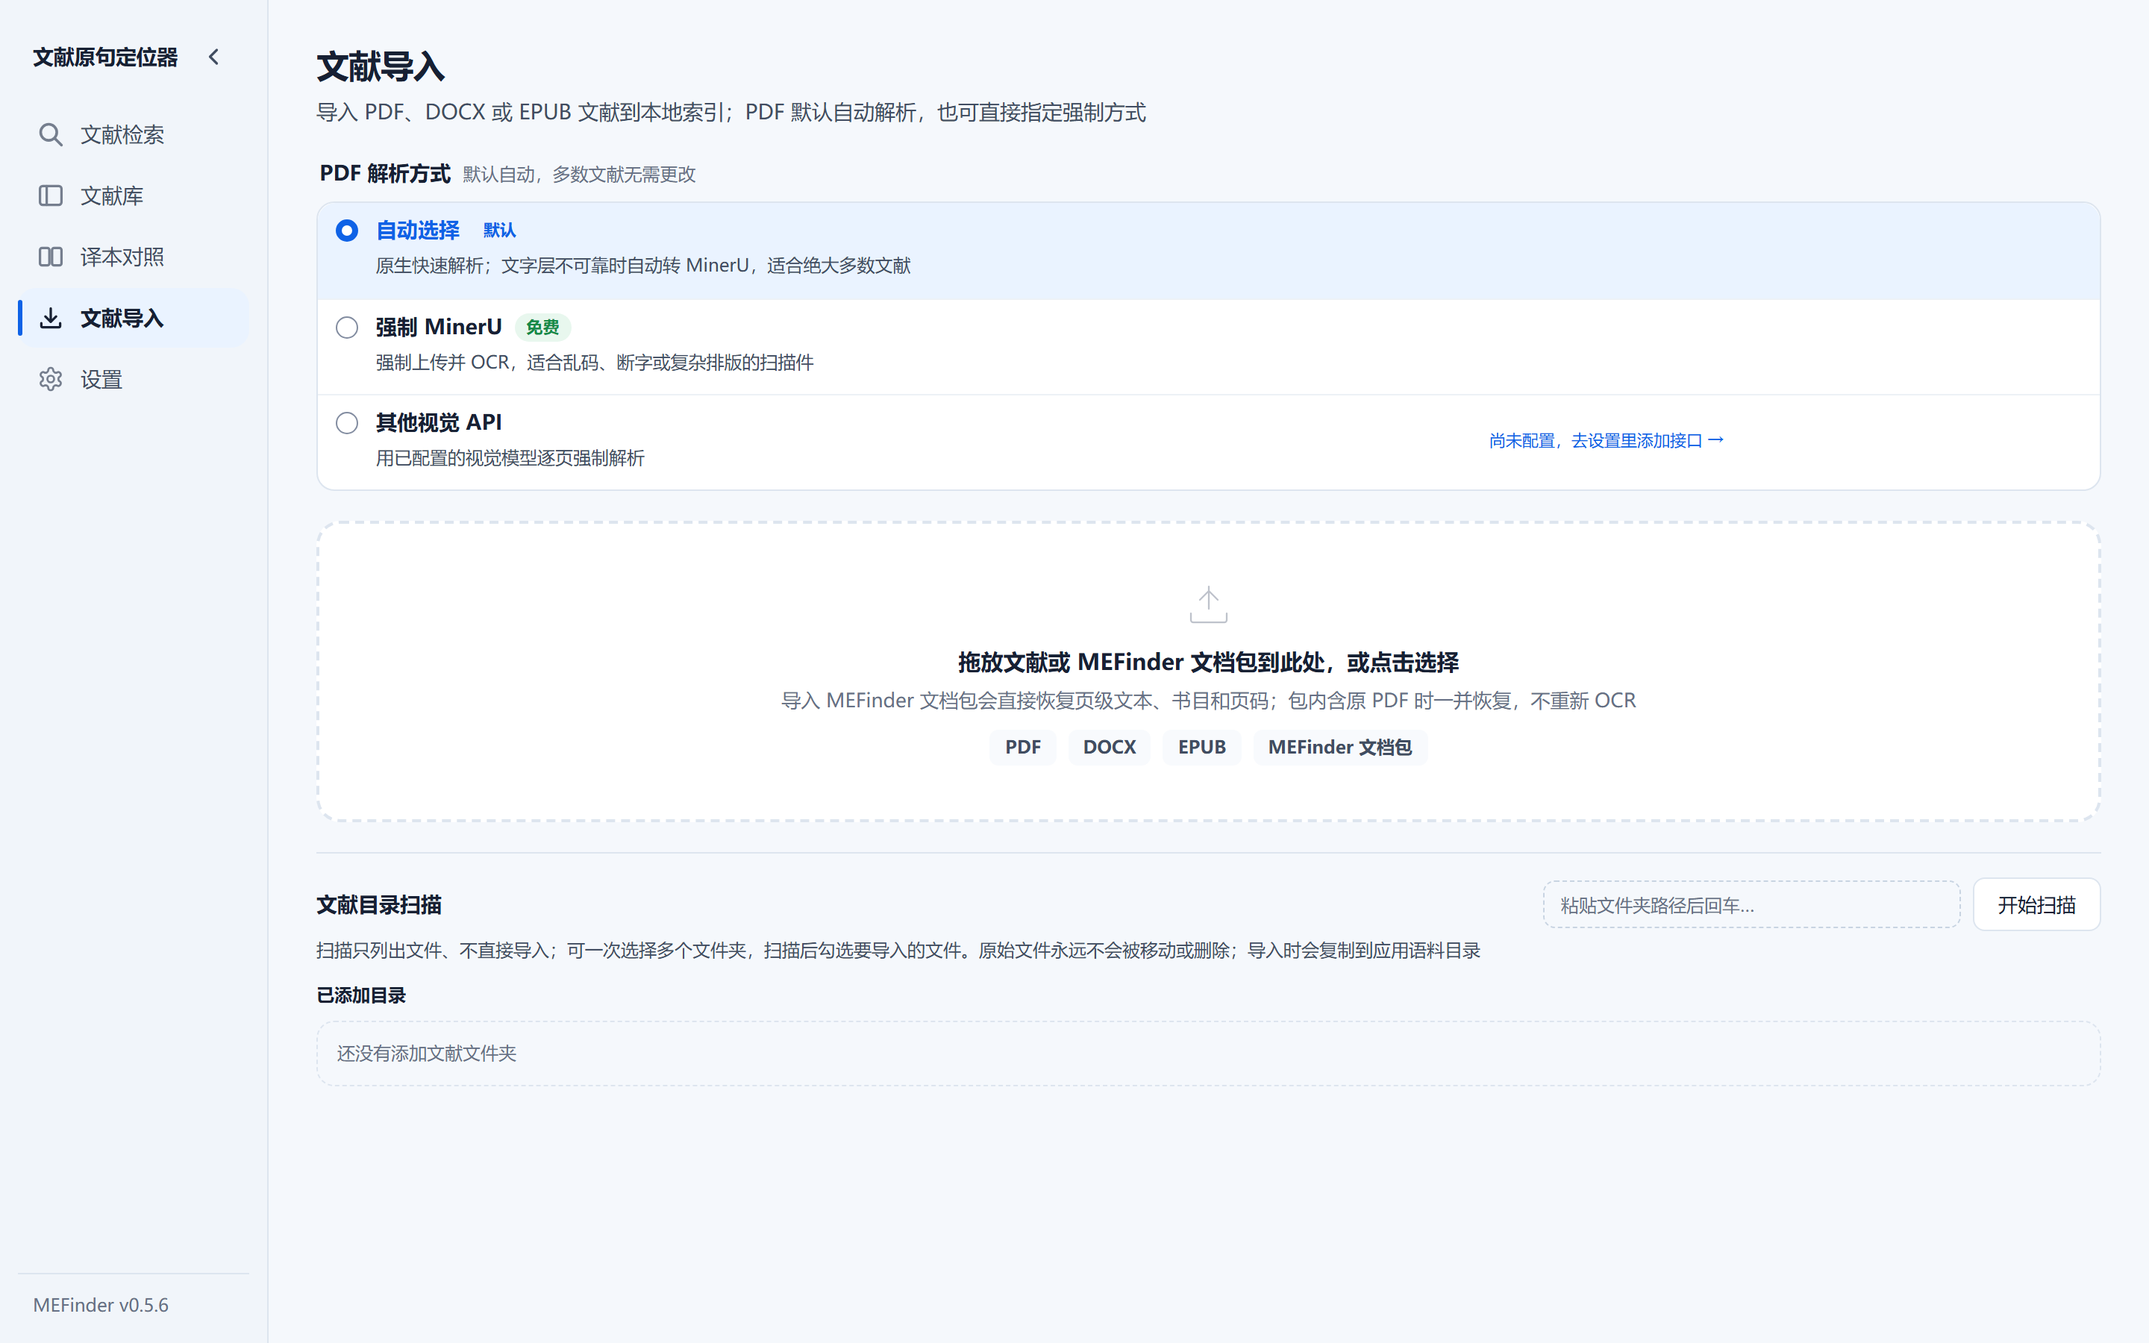
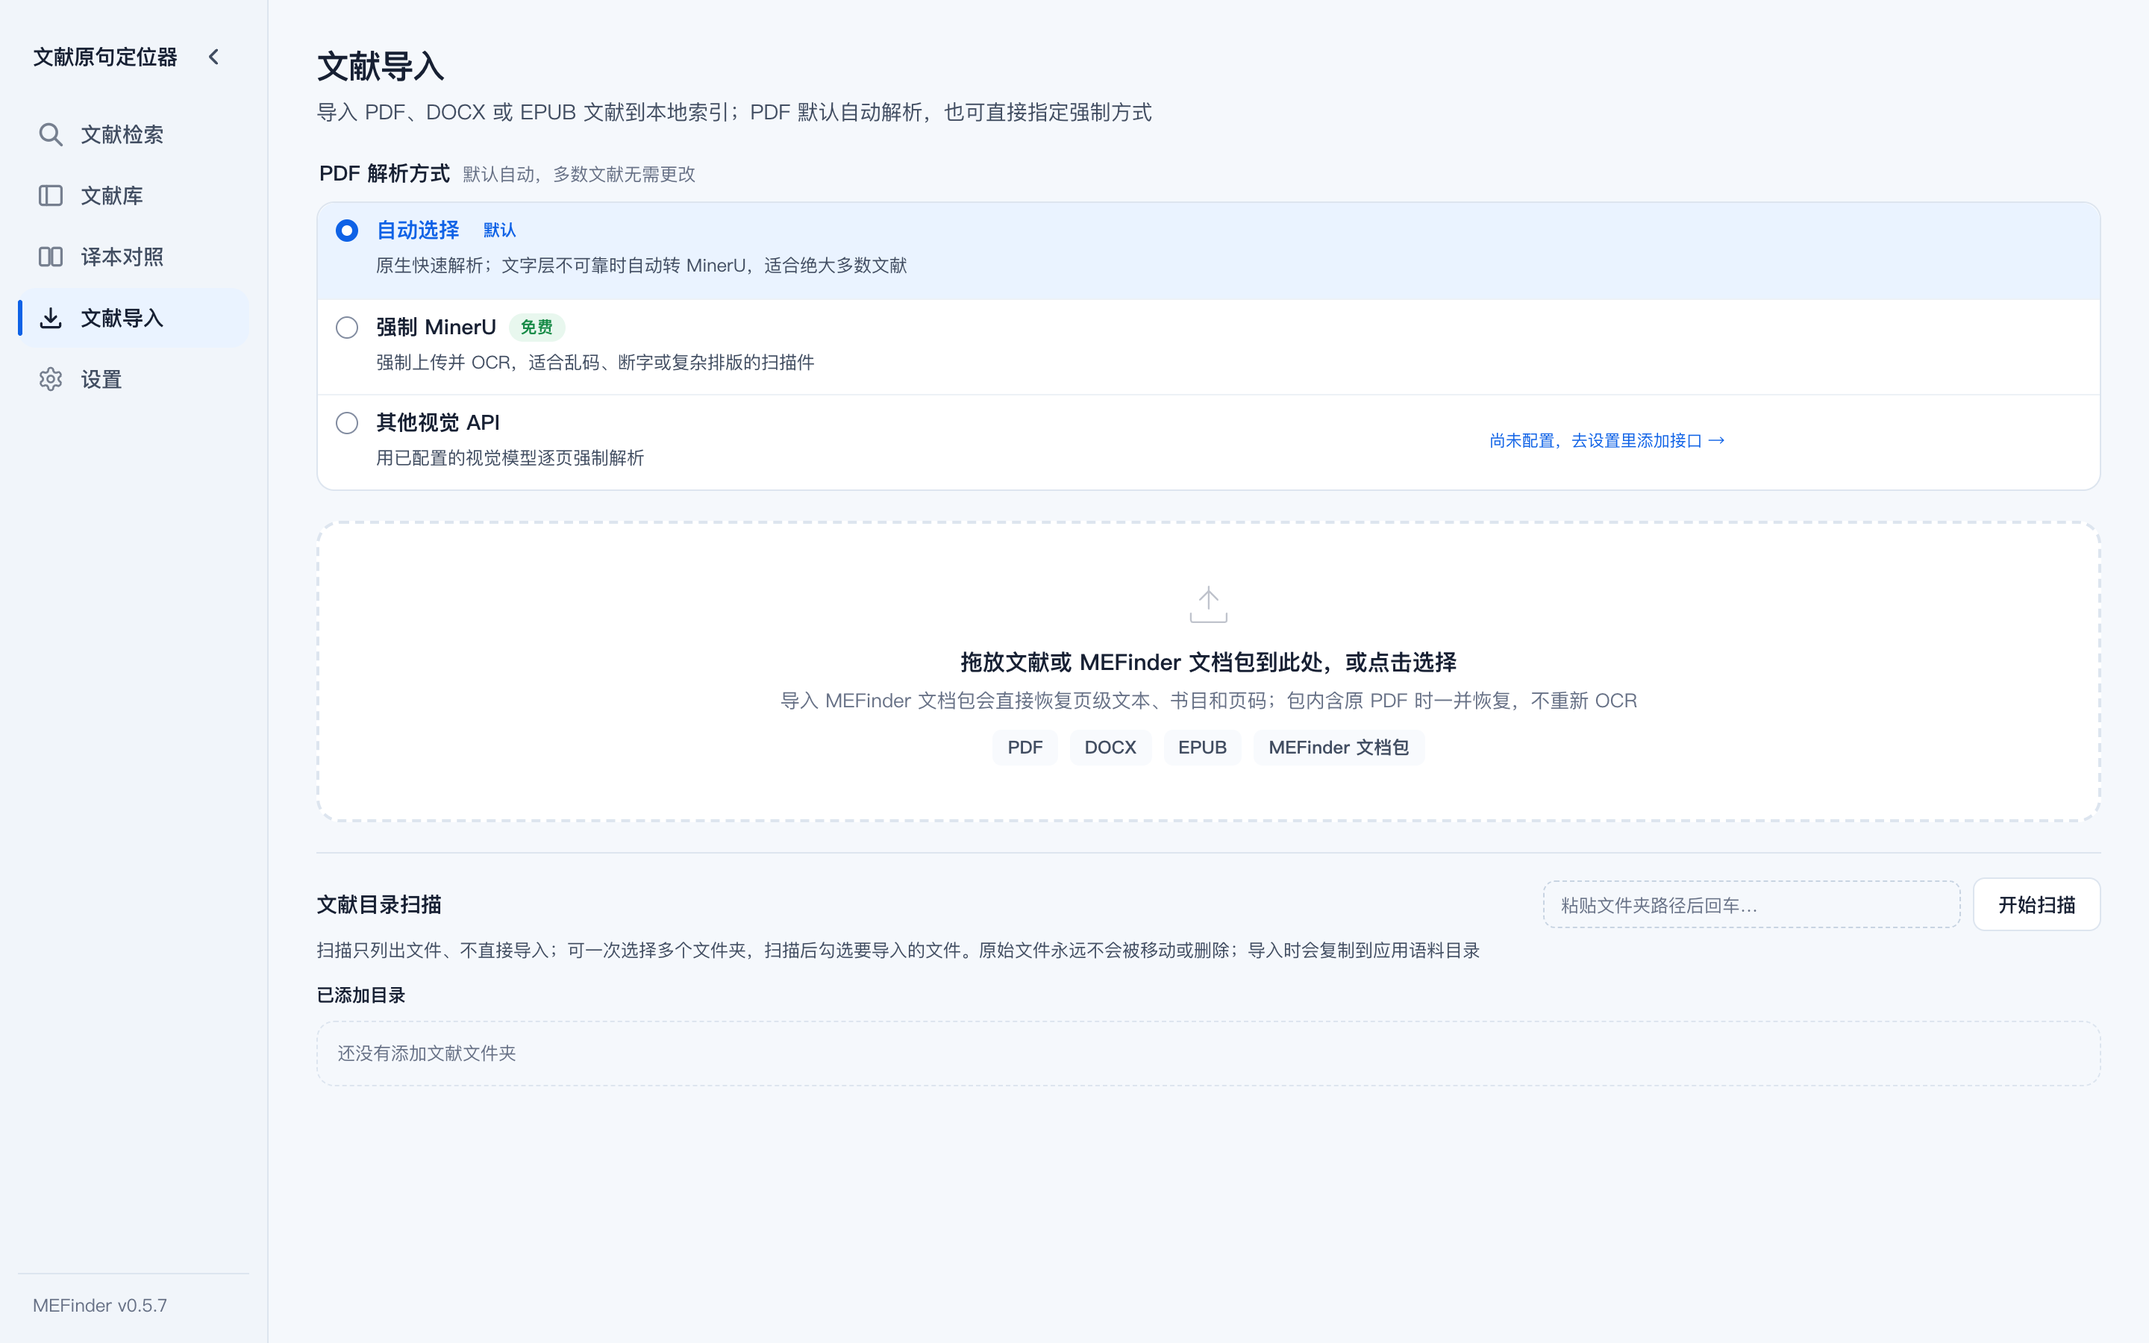
feat(site): 官网突出书内实际页码，三张截图按 0.5.7 重拍
- 首页标题改为「找到原句，给你书内实际页码」，副标题点明不是 PDF 物理页码
- 新增「页码」一节：自动映射、人工分段校准、EPUB 只用出版方页码、无页码如实标注；
  对照表取自《法哲学原理》同一份 PDF 的实测定位（PDF 第 69 页 = 序言第 16 页，
  第 272 页 = 第 201 页）；顶部导航加「页码」入口
- 首页演示结果并列书内页码与 PDF 物理页码；译者名更正为范扬
- 10-intake / 20-library / 30-search 在 macOS 隔离演示库重拍，左下角由 v0.5.6 更新为 v0.5.7
- act_search.js 自动选中序言命中、居中高亮并去掉输入框焦点，README 同步说明
- 全量 unittest 2608 项通过、28 项跳过；Ruff 仓库内零告警

diff --git a/site/index.html b/site/index.html
@@ -3,8 +3,8 @@
 <head>
 <meta charset="utf-8">
 <meta name="viewport" content="width=device-width, initial-scale=1">
-<title>文献原句定位器 MEFinder — 找回原句，也核对引文</title>
-<meta name="description" content="文献原句定位器（MEFinder）：本地优先的 PDF / Word / EPUB 文献原句检索、页码定位与引文辅助工具。把记得的片段交给它，它在你自己的文献库里找回原句，带你回到上下文和出版方页码。">
+<title>文献原句定位器 MEFinder — 找到原句，给你书内实际页码</title>
+<meta name="description" content="文献原句定位器（MEFinder）：本地优先的 PDF / Word / EPUB 文献原句检索、页码定位与引文辅助工具。把记得的片段交给它，它在你自己的文献库里找回原句，给出书内实际页码而不是 PDF 物理页码。">
 <link rel="icon" href="assets/app_icon_256.png">
 <link rel="stylesheet" href="tokens.css">
 <link rel="stylesheet" href="site.css">
@@ -15,6 +15,7 @@
 <header class="top">
   <a class="top-mark" href="./"><img src="assets/app_icon_256.png" width="28" height="28" alt="">文献原句定位器<span class="top-ver">MEFinder v<span data-rel="current">0.5.7</span></span></a>
   <nav class="top-nav" aria-label="页内导航">
+    <a href="#pages">页码</a>
     <a href="#features">功能</a>
     <a href="#mcp">MCP</a>
     <a href="#looks">外观</a>
@@ -28,10 +29,10 @@
 
   <section class="hero" id="try" aria-labelledby="hero-h">
     <div class="hero-copy">
-      <p class="eyebrow">PDF · Word · EPUB 本地文献原句检索</p>
-      <h1 class="hero-h1" id="hero-h">记得那句话，<br><span class="hl">想不起在哪本书</span>。</h1>
-      <p class="band-def">文献原句定位器（MEFinder）是一款本地优先的文献原句检索、页码定位与引文辅助工具。</p>
-      <p class="lede">完整句子、残缺片段、带着错字的记忆都可以交给它。它在你自己的文献库里找回原文，附上上下文和出版方页码，再把出处排成你要的格式。</p>
+      <p class="eyebrow">PDF · Word · EPUB 本地文献原句与页码定位</p>
+      <h1 class="hero-h1" id="hero-h">找到原句，<br><span class="nobr">给你<span class="hl">书内实际页码</span>。</span></h1>
+      <p class="band-def">不是 PDF 物理页码。PDF 第 69 页，书上印的是序言第 16 页。</p>
+      <p class="lede">文献原句定位器（MEFinder）是一款本地优先的文献原句检索、页码定位与引文辅助工具。完整句子、残缺片段、带着错字的记忆都可以交给它：它在你自己的文献库里找回原文，标出书内实际页码，再把出处排成你要的格式。</p>
       <div class="hero-actions">
         <a class="btn btn-primary btn-lg" id="cta-dl" href="https://github.com/sabercomo/MEFinder/releases/latest">下载 MEFinder</a>
         <a class="btn btn-quiet btn-lg" href="https://github.com/sabercomo/MEFinder"><svg class="gh-mark" viewBox="0 0 16 16" aria-hidden="true" focusable="false"><path d="M8 0C3.58 0 0 3.58 0 8c0 3.54 2.29 6.53 5.47 7.59.4.15.55-.17.55-.38 0-.19-.01-.82-.01-1.49-2.01.37-2.53-.49-2.69-.94-.09-.23-.48-.94-.82-1.13-.28-.15-.68-.52-.01-.53.63-.01 1.08.58 1.23.82.72 1.21 1.87.87 2.33.66.07-.52.28-.87.51-1.07-1.78-.2-3.64-.89-3.64-3.95 0-.87.31-1.59.82-2.15-.05-.13-.36-.99.08-2.07 0 0 .67-.21 2.2.82.64-.18 1.32-.27 2-.27.68 0 1.36.09 2 .27 1.53-1.04 2.2-.82 2.2-.82.44 1.08.13 1.94.08 2.07.51.56.82 1.27.82 2.15 0 3.07-1.87 3.75-3.65 3.95.29.25.54.73.54 1.48 0 1.07-.01 1.93-.01 2.2 0 .21.15.46.55.38A8.013 8.013 0 0 0 16 8c0-4.42-3.58-8-8-8z"/></svg>源码</a>
@@ -54,8 +55,36 @@
         <button type="button" class="chip" data-mode="fuzzy">模糊</button>
       </div>
       <div class="demo-out" id="demo-out" aria-live="polite"></div>
-      <p class="demo-foot">书里印的是「密纳发」。换个译名、记错两个字，模糊模式照样把它找回来，并给出引用页码。真实软件检索的是你整个文献库，不是这四段。</p>
+      <p class="demo-foot">书里印的是「密纳发」。换个译名、记错两个字，模糊模式照样把它找回来，给的是书内实际页码，不是 PDF 第几页。真实软件检索的是你整个文献库，不是这四段。</p>
     </figure>
+  </section>
+
+  <!-- ============ 页码 · 软件核心 ============ -->
+  <section class="pages" id="pages" aria-labelledby="pages-h">
+    <header class="sec-head">
+      <p class="eyebrow">页码</p>
+      <h2 class="sec-h2" id="pages-h">引用的是书内实际页码，不是 PDF 物理页码</h2>
+      <p class="sec-p">PDF 阅读器显示的页数从封面算起，序言、目录、插页都占页数，和书上印的页码对不上。MEFinder 的每条检索结果都带着书内实际页码。</p>
+    </header>
+    <div class="pages-grid">
+      <ul class="pages-points">
+        <li><b>自动映射。</b>读取页边印着的页码序列，把每个 PDF 物理页对应到书内页码；序言用罗马数字、正文用阿拉伯数字这样的分段也能分开认。</li>
+        <li><b>人工分段校准。</b>自动映射不准的书，按段指定「PDF 第几页是书内第几页」，之后整段跟着改。</li>
+        <li><b>EPUB 只用出版方页码。</b>读取出版方提供的 page-list / pagebreak，绝不按屏幕排版生成页码。</li>
+        <li><b>没有就说没有。</b>找不到书内页码时如实标「页码尚未解析」，不推算、不补数。</li>
+      </ul>
+      <div>
+        <table class="spec">
+          <caption class="visually-hidden">同一本《法哲学原理》PDF 里，物理页码与书内实际页码的对照</caption>
+          <thead><tr><th scope="col">《法哲学原理》里的一句话</th><th scope="col">PDF 物理页码</th><th scope="col">书内实际页码</th></tr></thead>
+          <tbody>
+            <tr><th scope="row">密纳发的猫头鹰要等黄昏到来，才会起飞。</th><td class="page-phys">第 69 页</td><td class="page-cite">序言第 16 页</td></tr>
+            <tr><th scope="row">婚姻作为直接伦理关系首先包括自然生活的环节。</th><td class="page-phys">第 272 页</td><td class="page-cite">第 201 页</td></tr>
+          </tbody>
+        </table>
+        <p class="pages-note">数据取自 MEFinder 对同一份 PDF（黑格尔著，范扬、张企泰译）的实际定位结果。两处相差 53 和 71 页，差值还不固定，靠「减去一个数」换算不出来。</p>
+      </div>
+    </div>
   </section>
 
   <!-- ============ 六个功能 ============ -->
@@ -130,7 +159,7 @@
         <h3>出处与引文</h3>
         <div class="plate-text">
           <p>识别并补全书目信息，把出处一次排成中文脚注、GB/T 7714、APA、MLA 或 Chicago。已配对的脚注随正文带出。</p>
-          <p class="note">页码区分 PDF 物理页与书内引用页，自动映射之外还能人工分段校准。</p>
+          <p class="note">出处里的页码就是书内实际页码，和上面「页码」一节是同一套数据。</p>
         </div>
       </div>
       <figure class="plate-media"><div class="frame"><img src="assets/60-cite.png" width="2880" height="1800" loading="lazy" alt="引文格式设置页，中文脚注、GB/T 7714 已勾选，Chicago、APA、MLA 未启用"></div><figcaption>引文格式：状态用文字说明，不只靠颜色区分。</figcaption></figure>

diff --git a/site/site.css b/site/site.css
@@ -179,6 +179,7 @@ h1, h2, h3 { overflow-wrap: anywhere; min-width: 0; }
   padding-inline: 0.04em;
 }
 
+.nobr { white-space: nowrap; }
 .band-def { font-size: var(--text-xl); font-weight: 650; line-height: 1.6; margin: 0 0 var(--space-xs); }
 .lede { font-size: var(--text-md); line-height: 1.85; color: var(--color-ink-2); margin: 0 0 var(--space-lg); }
 .hero-actions { display: flex; flex-wrap: wrap; align-items: center; gap: var(--space-xs); margin-bottom: var(--space-md); }
@@ -263,6 +264,7 @@ h1, h2, h3 { overflow-wrap: anywhere; min-width: 0; }
   border-radius: var(--radius-pill); padding: 0.05em 0.7em;
 }
 .hit-page.is-none { color: var(--color-hit-ink); font-weight: 600; border-color: var(--color-hit-rule); }
+.hit-phys { font-size: var(--text-xs); color: var(--color-ink-3); white-space: nowrap; }
 .hit-body { margin: 0; font-size: var(--text-sm); line-height: 1.8; color: var(--color-ink); }
 .hit mark {
   background: var(--color-hit-inline); color: var(--color-hit-ink);
@@ -277,6 +279,22 @@ h1, h2, h3 { overflow-wrap: anywhere; min-width: 0; }
   padding: var(--space-xs) var(--space-md);
   border-top: 1px dashed var(--color-rule-2);
 }
+
+/* ───────────── pages · 书内实际页码 ───────────── */
+
+.pages { padding-block: var(--space-2xl) var(--space-xl); border-bottom: 1px solid var(--color-rule-2); }
+.pages-grid { display: grid; gap: var(--space-xl); align-items: start; }
+@media (min-width: 960px) { .pages-grid { grid-template-columns: minmax(0, 1fr) minmax(0, 1.15fr); } }
+.pages-points { display: grid; gap: var(--space-sm); margin: 0; padding: 0; list-style: none; max-width: var(--measure); }
+.pages-points li { line-height: var(--leading-prose); color: var(--color-ink-2); padding-left: var(--space-sm); border-left: 2px solid var(--color-rule-2); }
+.pages-points b { color: var(--color-ink); }
+.pages .spec tbody th { white-space: normal; width: auto; font-weight: 400; color: var(--color-ink-2); }
+.pages .spec tbody td:first-of-type { width: auto; }
+.pages .spec tbody td { white-space: nowrap; font-variant-numeric: tabular-nums; }
+.pages .spec tbody td.page-cite { font-weight: 700; }
+.pages .spec tbody td.page-phys { color: var(--color-ink-3); }
+.pages .spec thead th:last-child, .pages .spec tbody td.page-cite { color: var(--color-accent-text); }
+.pages-note { font-size: var(--text-sm); line-height: 1.75; color: var(--color-ink-3); margin: var(--space-sm) 0 0; }
 
 /* ───────────── features · numbered plates ───────────── */
 

diff --git a/site/demo.js b/site/demo.js
@@ -8,8 +8,9 @@
   const PASSAGES = [
     {
       doc: "法哲学原理：或自然法和国家学纲要",
-      meta: "黑格尔 · 范杨、张企泰译",
+      meta: "黑格尔 · 范扬、张企泰译",
       page: "序言第16页",
+      pdfPage: 69,
       pageResolved: true,
       text: "关于教导世界应该怎样，……无论如何哲学总是来得太迟。哲学作为有关世界的思想，要直到现实结束其形成过程并完成其自身之后，才会出现。……当哲学用灰色的颜料绘成灰色的图画的时候，这一生活形态就变老了。对灰色绘成灰色，不能使生活形态变得年青，而只能作为认识的对象。密纳发的猫头鹰要等黄昏到来，才会起飞。",
     },
@@ -17,6 +18,7 @@
       doc: "法哲学原理：或自然法和国家学纲要",
       meta: "黑格尔 · 第161节",
       page: "第201页",
+      pdfPage: 272,
       pageResolved: true,
       text: "婚姻作为直接伦理关系首先包括自然生活的环节。因为伦理关系是实体性的关系，所以它包括生活的全部，亦即类及其生命过程的现实。但其次，自然性别的统一只是内在的或自在地存在的，正因为如此，它在它的实存中纯粹是外在的统一，这种统一在自我意识中就转变为精神的统一，自我意识的爱。",
     },
@@ -196,7 +198,8 @@
       top.append(el("span", "hit-doc", p.doc));
       top.append(el("span", null, p.meta));
       top.append(el("span", "hit-score", Math.round(hit.score * 100) + "%"));
-      top.append(el("span", "hit-page" + (p.pageResolved ? "" : " is-none"), p.page));
+      top.append(el("span", "hit-page" + (p.pageResolved ? "" : " is-none"), p.pageResolved ? "书内 " + p.page : p.page));
+      if (p.pdfPage) top.append(el("span", "hit-phys", `不是 PDF 第 ${p.pdfPage} 页`));
       card.append(top);
 
       const from = Math.max(0, span.start - 42);

diff --git a/scripts/site-shots/act_search.js b/scripts/site-shots/act_search.js
@@ -9,5 +9,15 @@
   const btn = [...document.querySelectorAll("button")].find((b) => b.textContent.trim() === "搜索");
   btn?.click();
   await sleep(2500);
+  // Drop focus so the capture shows no focus ring or caret in the query box.
+  inp.blur();
+  // Select the preface hit (the one whose citation page is 序言第15—16页) and
+  // bring its highlighted sentence to the middle of the context panel.
+  const pick = [...document.querySelectorAll("span,div")].find((x) => x.textContent.trim() === "序言第15—16页");
+  (pick?.closest("button,a,[role=option],li,article,.result-card") || pick)?.click();
+  await sleep(1200);
+  const marks = [...document.querySelectorAll("mark")].filter((m) => m.offsetParent !== null);
+  marks[marks.length - 1]?.scrollIntoView({ block: "center" });
+  await sleep(400);
   return document.body.innerText.slice(0, 400);
 })()

diff --git a/docs/release-notes-0.5.7.md b/docs/release-notes-0.5.7.md
@@ -3,6 +3,7 @@
 # v0.5.7 迭代说明
 
 - 从远端网站线引入 `site/`、GitHub Pages 工作流、发布信息更新脚本与截图脚本；官网将 v0.5.7 标为迭代中，下载仍指向已发布的 v0.5.5。该网站变更尚未部署到 `main`。
+- 官网突出书内实际页码：首页标题改为「找到原句，给你书内实际页码」，新增「页码」一节，用《法哲学原理》同一份 PDF 的实测结果对照 PDF 物理页码与书内实际页码（第 69 页 / 序言第 16 页，第 272 页 / 第 201 页），首页演示同时标出两种页码。导入、文献库、检索三张截图按 v0.5.7 在 macOS 上重拍（此前左下角仍为 v0.5.6）；检索截图脚本改为自动选中序言命中并居中高亮。
 - Zotero 设置页按确认的原型重排：立即同步移至标题旁，连接与最近同步结果集中在顶部；分类选择与同步设置分栏，窄内容区改为上下排列；一般规则及同步明细按需展开，移除文献的后果常显。关闭同步时禁用分类/频率控件并提示已导入文献保留；未连接时仍可调整同步开关与频率。PDF 解析方式继续共用导入页设置。
 - 设置目录采用与原型一致的 Lucide 线性图标，包括译本对齐的语言图标、本地 OCR 的文字扫描、引文格式的引号和书目补全的打开书本；SVG 内联并随包携带 ISC 许可，运行时不增加网络请求。验证范围及浏览器预览限制见 `reports/zotero-settings-ui-2026-09-27.md`。
 

diff --git a/scripts/site-shots/README.md b/scripts/site-shots/README.md
@@ -39,7 +39,7 @@ PYTHONPATH=<仓库>/src python -m me_finder serve --host 127.0.0.1 --port 8766
 
 | 资源 | 命令 |
 |---|---|
-| `30-search.png` | `node scripts/site-shots/shoot.mjs http://127.0.0.1:8766/ site/assets/30-search.png 1500 scripts/site-shots/act_search.js` |
+| `30-search.png` | `node scripts/site-shots/shoot.mjs http://127.0.0.1:8766/ site/assets/30-search.png 1500 scripts/site-shots/act_search.js`（动作脚本自动选中「序言第15—16页」那条并把高亮句滚到中间） |
 | `50-compare.png` | `node scripts/site-shots/shoot.mjs http://127.0.0.1:8766/ site/assets/50-compare.png 1500 scripts/site-shots/act_compare.js` |
 | `60-cite.png` | `node scripts/site-shots/shoot.mjs http://127.0.0.1:8766/ site/assets/60-cite.png 1000 scripts/site-shots/act_settings.js 引文格式` |
 | `70-settings.png` | `node scripts/site-shots/shoot.mjs http://127.0.0.1:8766/ site/assets/70-settings.png 1000 scripts/site-shots/act_settings.js Zotero` |
